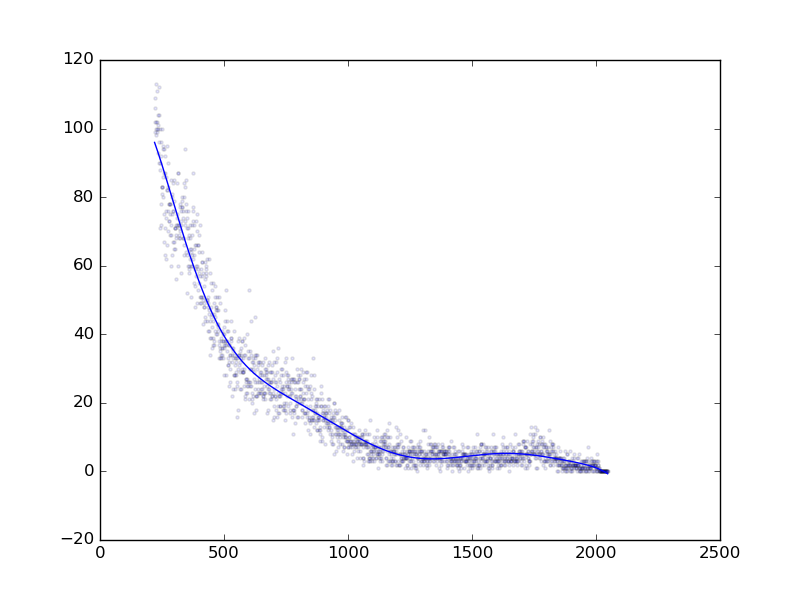
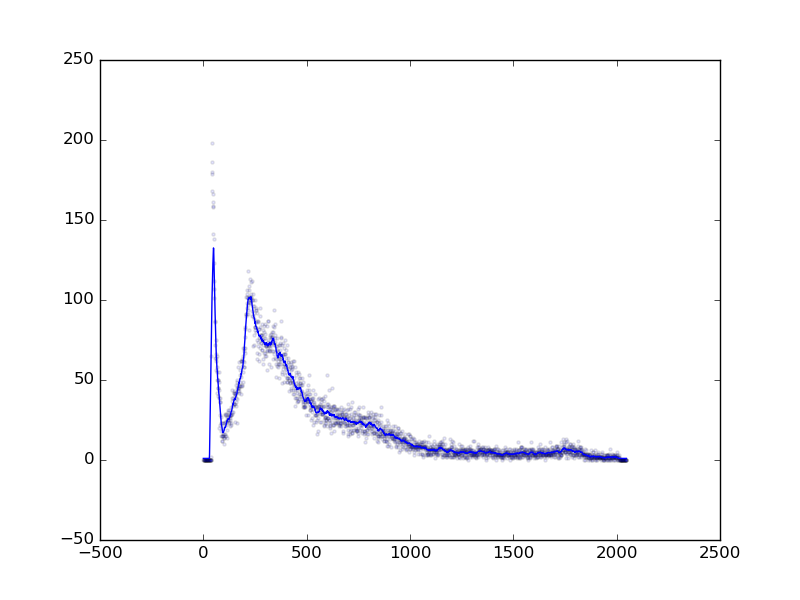
Made running average code instead of polynome

diff --git a/scripts/noise_profile.py b/scripts/noise_profile.py
@@ -6,40 +6,36 @@ import numpy as np
 import matplotlib.pyplot as plt 
 from scipy.optimize import curve_fit 
 
-def polynome(*argv):
-    y = sum([argv[0]**i * argv[i+1] for i in range(len(argv)-1)])
-    return y
+# def polynome(*argv):
+#     y = sum([argv[0]**i * argv[i+1] for i in range(len(argv)-1)])
+#     return y
 
 def fitter(sup_path, plot = True):
     '''
     Performs a calibration on a data set of size (4x2x2048)
     and returns the parameters a,b of the line fit and their uncertainties
     '''
-    data = gf.collapse_data(ft.get_data(path.join(sup_path, "01_No_Scatterer")))[220:]
-    
+    calib_noise = gf.collapse_data(ft.get_data(path.join(sup_path, "01_No_Scatterer")))
+    window = 20
     padded_noise = np.pad(calib_noise,(window//2, window//2), mode="edge")
     array_view = np.lib.stride_tricks.as_strided(padded_noise, shape=(calib_noise.size,window), strides=[padded_noise.strides[0] for i in range(2)])
-    noise_model =np.mean(array_view, axis=-1)
+    noise_model = np.mean(array_view, axis=-1)
     noise_model = np.maximum(np.ones(noise_model.size), noise_model)
-    noise_model = np.sqrt(noise_model)
-    print(np.min(noise_model))
-    x = np.linspace(220,2047,2048-220)
-    uncert = np.sqrt(data)
-    print(data)
-    res = curve_fit(polynome, x, data, p0 = [-3.20194279e+00,-3.38704699e-02,1.48655540e-02,-1.15786819e-04,
-                                            3.68163557e-07, -5.20736574e-10,  1.64862236e-14,  1.13040755e-15,
-                                            -1.95524233e-18,  1.75095304e-21, -9.49046487e-25,  3.13656100e-28,
-                                            -5.83843311e-32,  4.70517366e-36]) 
-    popt = res[0]
-    uncertainty = np.sqrt(np.diag(res[1]))
-    print(popt, uncertainty)
+    x = np.linspace(0,2047,2048)
+    # res = curve_fit(polynome, x, data, p0 = [-3.20194279e+00,-3.38704699e-02,1.48655540e-02,-1.15786819e-04,
+    #                                         3.68163557e-07, -5.20736574e-10,  1.64862236e-14,  1.13040755e-15,
+    #                                         -1.95524233e-18,  1.75095304e-21, -9.49046487e-25,  3.13656100e-28,
+    #                                         -5.83843311e-32,  4.70517366e-36]) 
+    # popt = res[0]
+    # uncertainty = np.sqrt(np.diag(res[1]))
+    # print(popt, uncertainty)
     if plot:
         plt.figure()
-        plt.scatter(x,data, marker = '.', alpha = 0.1)
-        plt.plot(x, polynome(x, *popt))
+        plt.scatter(x,calib_noise, marker = '.', alpha = 0.1)
+        plt.plot(x, noise_model)
         plt.savefig(path.join(sup_path + 'background_noise.png'))
-    np.savez(path.join(sup_path + 'background_noise.npz'), coefs = popt)
-    return popt
+    # np.savez(path.join(sup_path + 'background_noise.npz'), coefs = popt)
+    return noise_model
 
 if __name__ == '__main__':
     fitter(path.join('../data/', sys.argv[1]))

diff --git a/scripts/peak_finder.py b/scripts/peak_finder.py
@@ -10,25 +10,26 @@ def peak_finder(sup_path, bins, plot = True):
     '''
     Loads rod data from specified path, substracts the noise profile and plot.
     '''
-    data = gf.collapse_data(ft.get_data(path.join(sup_path, "02_Tungsten")))[bins[0]:bins[1]]
-    x = np.linspace(0,2047,2048)[bins[0]:bins[1]]
-    noise_coefs = nsp.fitter(path.join(sup_path), plot = False)
-    noise = nsp.polynome(x, *noise_coefs)
+    data = gf.collapse_data(ft.get_data(path.join(sup_path, "02_Tungsten")))
+    x = np.linspace(0,2047,2048)
+    noise = nsp.fitter(path.join(sup_path), plot = True)
     # NOISE UNCERTAINTY
     data_corrected = data - noise
-    new_x = x[(data_corrected > 0)]
-    data_corrected = data_corrected[(data_corrected > 0)]
-    data_uncertainty = np.sqrt(data_corrected)
-    res = curve_fit(gf.total_fit, new_x, data_corrected, 
+    data_corrected_window = data_corrected[bins[0]:bins[1]]
+    x_window = x[bins[0]:bins[1]]
+    new_x = x_window[(data_corrected_window > 1)]
+    data_final = data_corrected_window[(data_corrected_window > 1)]
+    data_uncertainty = np.sqrt(data_final)
+    res = curve_fit(gf.total_fit, new_x, data_final, 
             p0 = [np.mean(bins), 10, 100, 10, 1, 1], sigma = data_uncertainty, bounds = (0,1e5))
     popt = res[0]
     unc = np.sqrt(np.diag(res[1]))
     
     if plot: 
         plt.figure()
-        plt.scatter(new_x,data_corrected, marker = '.', alpha = 1)
+        plt.scatter(x,data_corrected, marker = '.', alpha = 1)
         plt.plot(x, gf.total_fit(x, *popt))
-        plt.xlim(bins[0],bins[1])
+        # plt.xlim(bins[0],bins[1])
         # plt.show()
         plt.savefig(path.join(sup_path + 'gaussian.png'))
     return popt, unc

diff --git a/scripts/mass_calculator.py b/scripts/mass_calculator.py
@@ -16,7 +16,7 @@ def mass_electron(peak_location, a, b, theta):
     
     Ei = ufloat(661.657e3*con.e, 0.003*con.e) # 661.6 keV converted to Joules
     
-    Ef = (a*peak_location + b )*10**3*con.e #if these numbers are wrong thats linda fault
+    Ef = (a*peak_location + b)*10**3*con.e #if these numbers are wrong thats linda fault
     
     mass = (1/con.c**2) * 1/( 1/Ef - 1/Ei ) * ( 1 - cos( theta*np.pi/180) )
     
@@ -31,10 +31,10 @@ if __name__ == '__main__':
         a = ufloat(coef[0], unc[0])
         b = ufloat(coef[1], unc[1])
         mass = []
-        if peaks_data["angles"][i] == 220:
-            print("LOLZZZ")
-            continue
+        
         mass.append(mass_electron(ufloat(peaks_data['peaks'][i], peaks_data['uncertainty'][i]), a, b, ufloat(peaks_data['angles'][i], 0.1) ))
+        print(i)
+        print(len(mass))
         print('theta = {} deg -> mass = {} kg'.format( peaks_data['angles'][i], mass[i] ))
         
     print('Average is given by: ', np.average([x.nominal_value for x in mass], weights = [x.std_dev for x in mass]), "pm", 1/np.sqrt(np.sum([x.std_dev for x in mass])))
